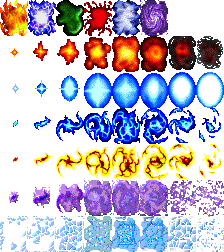
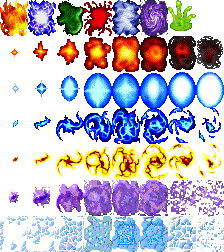
temp acid graphic
this is adapted from a BoA monster graphic, I think created by Andrew Hunter,
who is already in the credits as the primary artist

diff --git a/src/game/boe.graphics.cpp b/src/game/boe.graphics.cpp
@@ -1457,7 +1457,7 @@ void draw_rest_screen() {
 // mode
 //   if 100, force
 // type
-//   0 - flame 1 - magic 2 - poison 3 - blood 4 - cold
+//   0 - flame 1 - magic 2 - poison 3 - blood 4 - cold 5 - unblockable 6 - acid
 // sound
 //   negative - pass sound explicitly
 //   0 or more: use lookup
@@ -1481,7 +1481,7 @@ void boom_space(location where,short mode,short type,short damage,short sound) {
 //		return;
 	if((mode != 100) && (party_can_see(where) == 6))
 		return;
-	if(type < 0 || type > 5)
+	if(type < 0 || type > 6)
 		return;
 	if((boom_anim_active) && (type != 3))
 		return;

diff --git a/src/game/boe.specials.cpp b/src/game/boe.specials.cpp
@@ -61,7 +61,7 @@ std::map<eDamageType,int> boom_gr = {
 	{eDamageType::FIRE, 0},
 	{eDamageType::POISON, 2},
 	{eDamageType::MAGIC, 1},
-	{eDamageType::ACID, 3}, // TODO add an acid graphic
+	{eDamageType::ACID, 6},
 	{eDamageType::UNBLOCKABLE, 5},
 	{eDamageType::COLD, 4},
 	{eDamageType::UNDEAD, 3},
